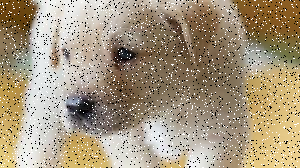
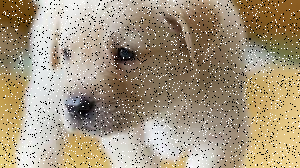
add sobel filter

Changed region(s): [[0.0, 0.0, 1.0, 1.0]]

diff --git a/anonymize.py b/anonymize.py
@@ -1,6 +1,7 @@
 import cv2
 import numpy as np
 import random
+from scipy import ndimage
 
 #anonymize dataset before storage
 
@@ -20,12 +21,21 @@ def salt_and_pepper(image,prob):
                 output[i][j] = image[i][j]
     return output
 
+def soble_filter(image):
+    im = image.astype('int32')
+    dx = ndimage.sobel(im, 0) 
+    dy = ndimage.sobel(im, 1)
+    #calculate hypotenuse
+    noisy_image = np.hypot(dx, dy)
+    noisy_image *= 255.0 / np.max(noisy_image)
+    return noisy_image
+
 def anonymize(imgname):
-	image = cv2.imread(imgname)
 
+    image = cv2.imread(imgname)
+    if(random.random()<0.5):
+        noisy_image = salt_and_pepper(image,0.05)
+    else:
+        noisy_image = soble_filter(image)
 
-	#noisy_image = image + np.random.normal(mean, sigma, image.shape)
-
-	noisy_image = salt_and_pepper(image,0.05)
-
-	return noisy_image
+    return noisy_image
